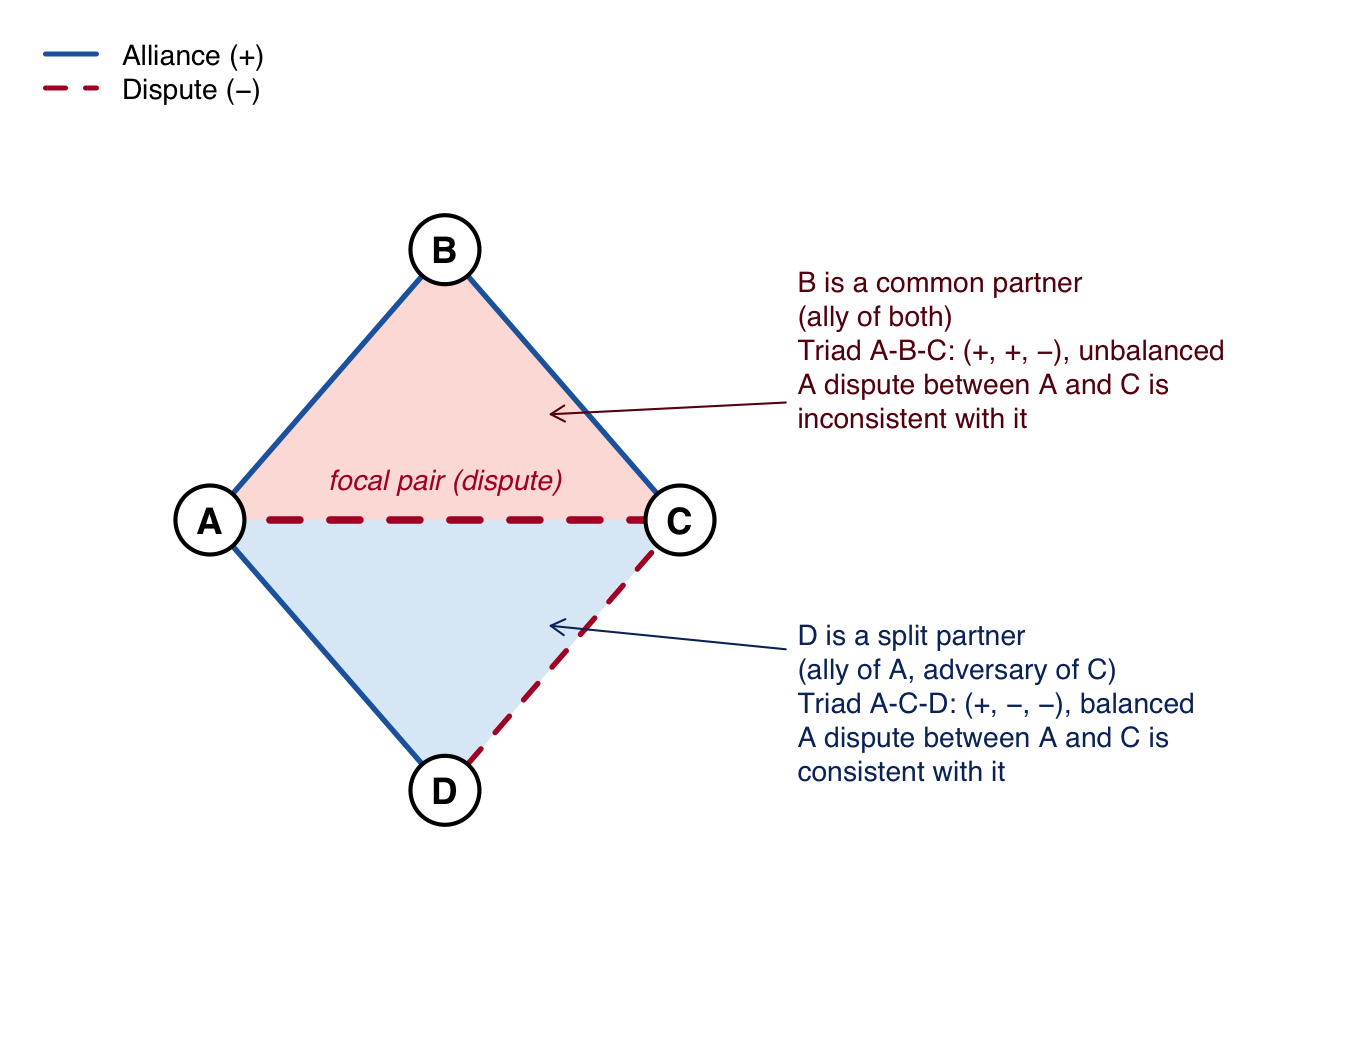
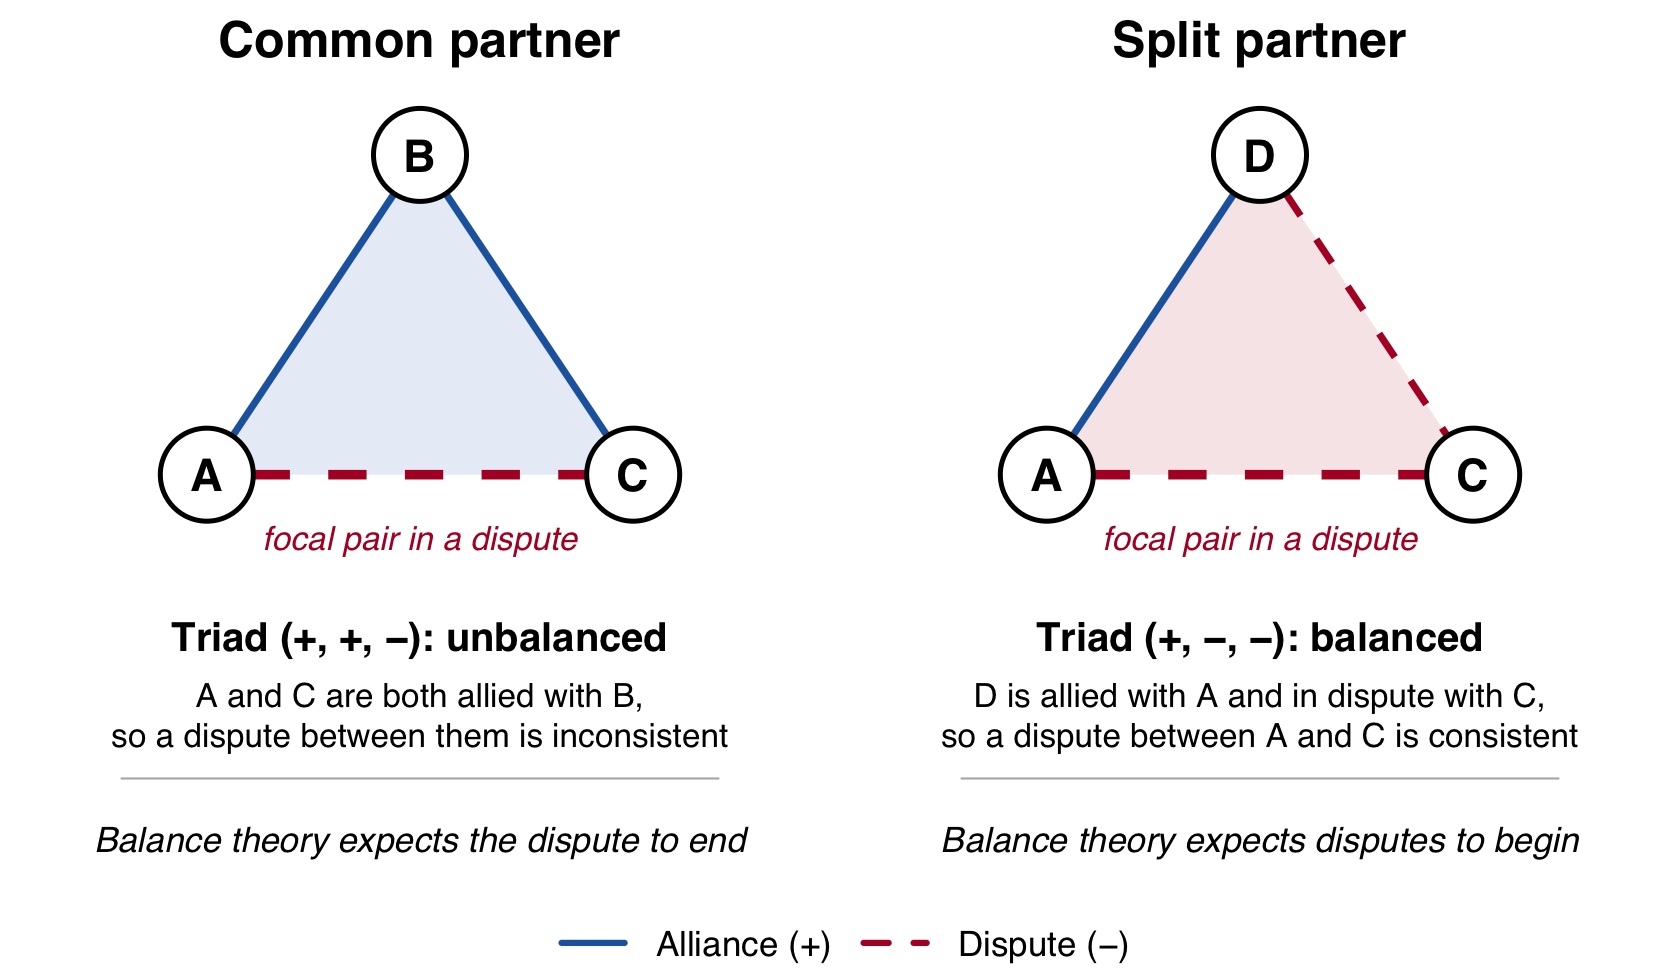
Add script 98 (within-between by contiguity), redraw Figure 1, renumber appendix references in README

diff --git a/README.md b/README.md
@@ -39,30 +39,30 @@ Seeds are set where randomness is used (cross-validation, bootstrap). Running a 
 
 ## Where each table and figure comes from
 
-The principal population of the article is all dyad-years. Scripts 66 to 83 were first run on embedded pairs only; scripts 86 to 94 repeat the main analyses on all dyad-years, and the embedded-pair results are in Appendix L.
+The principal population of the article is all dyad-years. Scripts 66 to 83 were first run on embedded pairs only; scripts 86 to 94 repeat the main analyses on all dyad-years, and the embedded-pair results are in Appendix A.
 
 | Item in the article | Script | Output in `results/` |
 |---|---|---|
 | Table 1 (composition) | 66 | `triad_population_output.txt` |
 | Figure 1 (schematic) | 43 | `fig_pressure.*` |
-| Figure 2A (transitions, all dyad-years), Appendix P | 86, 91, 92 | `population_selection_output.txt`, `fullpanel_shared_se_output.txt`, `fig_exposure_map_full.*` |
-| Figure 2B (severity), Section 5.5, Appendix O | 89, 92 | `fullpanel_severity_initiator_output.txt` |
-| Section 5.3 (contiguity, distance), Appendix Q | 88, 94 | `fullpanel_within_het_output.txt`, `fullpanel_contiguity_implied_output.txt` |
-| Section 5.3, Appendix R (major powers, regions) | 84 | `distant_pairs_output.txt` |
-| Figure 3 (predicted onsets), Appendix S | 85, 92 | `effect_sizes_output.txt`, `predicted_onset_by_percentile.csv`, `fig_predicted_onset.*` |
-| Section 5.4 (within-between, fixed effects), Appendix Q | 88, 93 | `fullpanel_within_het_output.txt`, `fullpanel_dyad_fe_output.txt` |
+| Figure 2A (transitions, all dyad-years), Appendix E | 86, 91, 92 | `population_selection_output.txt`, `fullpanel_shared_se_output.txt`, `fig_exposure_map_full.*` |
+| Figure 2B (severity), Section 5.5, Appendix D | 89, 92 | `fullpanel_severity_initiator_output.txt` |
+| Section 5.3 (contiguity, distance), Appendix F | 88, 94 | `fullpanel_within_het_output.txt`, `fullpanel_contiguity_implied_output.txt` |
+| Section 5.3, Appendix G (major powers, regions) | 84 | `distant_pairs_output.txt` |
+| Figure 3 (predicted onsets), Appendix H | 85, 92 | `effect_sizes_output.txt`, `predicted_onset_by_percentile.csv`, `fig_predicted_onset.*` |
+| Section 5.4 (within-between, fixed effects), Appendix F | 88, 93, 98 | `fullpanel_within_het_output.txt`, `fullpanel_dyad_fe_output.txt`, `within_between_by_contiguity_output.txt` |
 | Table 2 (controls) | 87 | `fullpanel_controls_output.txt` |
 | Table 3 (predictors, held-out comparisons) | 90 | `fullpanel_predictors_output.txt` |
-| Figure 4 (periods), Appendix P | 70, 79, 80 | `embedding_over_time_output.txt`, `era_bins_rates.csv`, `era_bins_shares.csv`, `fig_eras.*` |
-| Appendix L (embedded pairs only) | 66, 68, 73, 77, 81 | `triad_population_output.txt`, `predictors_in_T_output.txt`, `claims_table_output.txt`, `hostility_gradient_output.txt`, `within_between_output.txt` |
-| Appendix M (unbalanced triads) | 71, 72 | `negative_tie_resolution_output.txt` |
-| Appendix T (lagged embedding and partner counts) | 86, 97 | `population_selection_output.txt`, `lagged_network_output.txt` |
-| Appendix N, geography (actor-overlap intervals) | 95 | `geography_actor_overlap_output.txt` |
-| Appendix U (upper tail of exposure) | 96 | `upper_tail_output.txt` |
-| Appendices E, F, H, I, J, K | 35 to 65 | `*_output.txt` |
-| Appendices A to D, G | 02 to 34, 56 | `*_output.txt`, `*.rds` |
+| Figure 4 (periods), Appendix E | 70, 79, 80 | `embedding_over_time_output.txt`, `era_bins_rates.csv`, `era_bins_shares.csv`, `fig_eras.*` |
+| Appendix A (embedded pairs only) | 66, 68, 73, 77, 81 | `triad_population_output.txt`, `predictors_in_T_output.txt`, `claims_table_output.txt`, `hostility_gradient_output.txt`, `within_between_output.txt` |
+| Appendix B (unbalanced triads) | 71, 72 | `negative_tie_resolution_output.txt` |
+| Appendix I (lagged embedding and partner counts) | 86, 97 | `population_selection_output.txt`, `lagged_network_output.txt` |
+| Appendix C, geography (actor-overlap intervals) | 95 | `geography_actor_overlap_output.txt` |
+| Appendix J (upper tail of exposure) | 96 | `upper_tail_output.txt` |
+| Appendices L, M, N, O, P, Q | 35 to 65 | `*_output.txt` |
+| Appendices R to U, V | 02 to 34, 56 | `*_output.txt`, `*.rds` |
 
-Scripts 01 to 34 belong to the triad-level design of Appendices A to D and G and use the original signed network, in which neutrality, non-aggression, and entente agreements count as alliances along with defence pacts. They have not been re-run under the defence-pact definition.
+Scripts 01 to 34 belong to the triad-level design of Appendices R to U and V and use the original signed network, in which neutrality, non-aggression, and entente agreements count as alliances along with defence pacts. They have not been re-run under the defence-pact definition.
 
 ## Files not included
 
